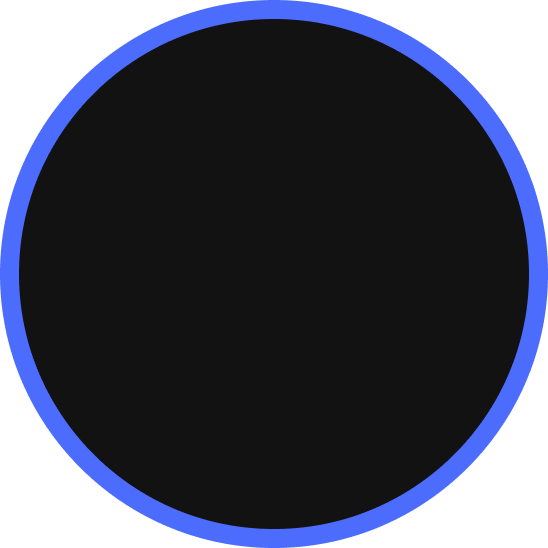
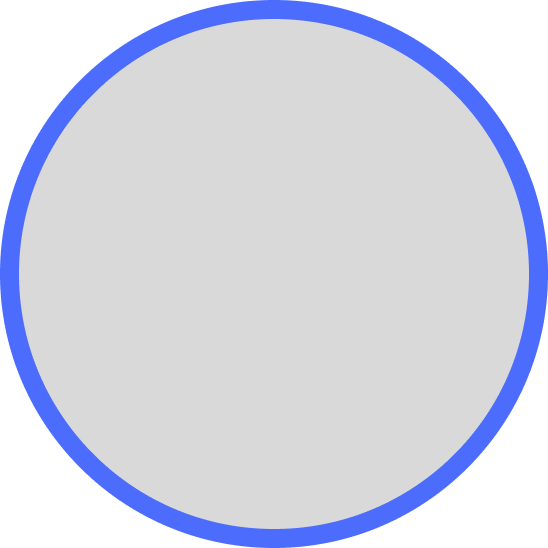
Self em todos os componentes da GUI002

diff --git a/view/Controller.py b/view/Controller.py
@@ -77,7 +77,6 @@ class TkThread(threading.Thread):
         # self.root.overrideredirect(True)
         self.root.geometry("{}x{}+{}+{}".format(window_width,
                            window_height, x_cordinate, y_cordinate))
-        # self.root.attributes("-fullscreen", True)
 
         # self.root.geometry("{0}x{1}+0+0".format(str(scr_w),str(scr_h)))
 
@@ -192,75 +191,73 @@ class GUI002(tk.Frame):
 
     def page_build(self):
         # Titulo Principal
-        title = tk.Label(
+        self.title = tk.Label(
             self,
             text="Guindaste Simulado",
             foreground=text_color,
             bg=background_color,
             font=("Inter Regular", 20))
 
-        title.place(x=830, y=16, width=260, height=24)
-
-        # Ellipse da telemetria
-        ellipse_telemetry_image = Image.open(
-            relative_to_assets("images/Ellipse 15.png"))
-        ellipse_telemetry_image = ImageTk.PhotoImage(ellipse_telemetry_image)
-        ellipse_telemetry_base = tk.Label(
-            self,
-            image=ellipse_telemetry_image,
-            bg=background_color)
-        ellipse_telemetry_base.image = ellipse_telemetry_image
-        ellipse_telemetry_base.place(x=682, y=104)
-
-        # Espaço da imagem
-        component_1_image = Image.open(
-            relative_to_assets("images/Component 1.png"))
-        component_1_image = ImageTk.PhotoImage(component_1_image)
-        component_1 = tk.Label(
-            self,
-            width=510,
-            height=510,
-            background=background_color,
-            foreground=background_color,
-            activebackground=background_color,
-            image=component_1_image,
-            bg=background_color)
-        component_1.image = component_1_image
-        component_1.place(x=701, y=123)
-
-        # Retângulo dos controles
-        rectangle_7_image = Image.open(
-            relative_to_assets("images/Rectangle 7.png"))
-        rectangle_7_image = ImageTk.PhotoImage(rectangle_7_image)
-        rectangle_7 = tk.Label(
-            self,
-            image=rectangle_7_image,
-            bg=background_color)
-        rectangle_7.image = rectangle_7_image
-        rectangle_7.place(x=254, y=758)
+        self.title.place(x=830, y=16, width=260, height=24)
 
         # Retângulo da telemetria - altura
-        height_telemetry_image = Image.open(
-            relative_to_assets("images/Group 5.png"))
-        height_telemetry_image = ImageTk.PhotoImage(height_telemetry_image)
-        height_telemetry_base = tk.Label(
+        # height_telemetry_image = Image.open(
+        #     relative_to_assets("images/Group 5.png"))
+        # height_telemetry_image = ImageTk.PhotoImage(height_telemetry_image)
+        # height_telemetry_base = tk.Label(
+        #     self,
+        #     image=height_telemetry_image,
+        #     bg=background_color)
+        # height_telemetry_base.image = height_telemetry_image
+        # height_telemetry_base.place(x=1212, y=286)
+
+        # Ellipse da telemetria
+        self.ellipse_telemetry_image = Image.open(
+            relative_to_assets("images/Group 18.png"))
+        self.ellipse_telemetry_image = ImageTk.PhotoImage(self.ellipse_telemetry_image)
+        self.ellipse_telemetry_base = tk.Label(
             self,
-            image=height_telemetry_image,
+            image=self.ellipse_telemetry_image,
             bg=background_color)
-        height_telemetry_base.image = height_telemetry_image
-        height_telemetry_base.place(x=1212, y=286)
+        self.ellipse_telemetry_base.image = self.ellipse_telemetry_image
+        self.ellipse_telemetry_base.place(x=278, y=104)
+
+        # Espaço da imagem
+        self.component_1_image = Image.open(
+            relative_to_assets("images/Component 1.png"))
+        self.component_1_image = ImageTk.PhotoImage(self.component_1_image)
+        self.component_1 = tk.Label(
+            self,
+            width=143,
+            height=143,
+            image=self.component_1_image,
+            bg="#D9D9D9")
+
+        self.component_1.image = self.component_1_image
+        self.component_1.place(x=885, y=305)
+
+        # Retângulo dos controles
+        self.rectangle_7_image = Image.open(
+            relative_to_assets("images/Rectangle 7.png"))
+        self.rectangle_7_image = ImageTk.PhotoImage(self.rectangle_7_image)
+        self.rectangle_7 = tk.Label(
+            self,
+            image=self.rectangle_7_image,
+            bg=background_color)
+        self.rectangle_7.image = self.rectangle_7_image
+        self.rectangle_7.place(x=254, y=758)
 
         # Label do controle de rotação
-        rotation_1_label = tk.Label(
+        self.rotation_1_label = tk.Label(
             self,
             text="Rotação",
             foreground=text_color,
             bg=control_background_color,
             font=("Inter Regular", 16))
-        rotation_1_label.place(x=1336, y=808, width=90, height=32)
+        self.rotation_1_label.place(x=1336, y=808, width=90, height=32)
 
         # Input do controle de rotação
-        rotation_canva = customtkinter.CTkFrame(
+        self.rotation_canva = customtkinter.CTkFrame(
             master=self,
             height=60,
             width=67,
@@ -269,10 +266,10 @@ class GUI002(tk.Frame):
             border_width=0,
             border_color=control_background_color)
         # frame_1.pack()
-        rotation_canva.place(x=1246, y=817)
+        self.rotation_canva.place(x=1246, y=817)
 
-        rotation_entry = customtkinter.CTkEntry(
-            master=rotation_canva,
+        self.rotation_entry = customtkinter.CTkEntry(
+            master=self.rotation_canva,
             placeholder_text="0",
             height=30,
             width=67,
@@ -287,18 +284,18 @@ class GUI002(tk.Frame):
             validatecommand=self.rotation_entry_callback
         )
 
-        rotation_entry.pack()
+        self.rotation_entry.pack()
 
-        rotation_metrics_label = tk.Label(
+        self.rotation_metrics_label = tk.Label(
             self,
             text="graus",
             foreground=text_color,
             bg=control_background_color,
             font=("Inter Regular", 16))
 
-        rotation_metrics_label.place(x=1246, y=842, width=67, height=30)
+        self.rotation_metrics_label.place(x=1246, y=842, width=67, height=30)
         # Slider da rotação
-        rotation_slider = customtkinter.CTkSlider(
+        self.rotation_slider = customtkinter.CTkSlider(
             master=self,
             from_=0,
             to=360,
@@ -318,17 +315,17 @@ class GUI002(tk.Frame):
             bd=0
         )
 
-        rotation_slider.set(0)
-        rotation_slider.border_color = "#262626"
-        rotation_slider.place(x=1338, y=846)
+        self.rotation_slider.set(0)
+        self.rotation_slider.border_color = "#262626"
+        self.rotation_slider.place(x=1338, y=846)
 
         # Label do controle de distância entre a ferramenta e o objeto
-        tool_1_label = tk.Label(self, text="Distância", foreground=text_color,
+        self.tool_1_label = tk.Label(self, text="Distância", foreground=text_color,
                                 bg=control_background_color, font=("Inter Regular", 16))
-        tool_1_label.place(x=436, y=808, width=90, height=32)
+        self.tool_1_label.place(x=436, y=808, width=90, height=32)
 
         # Slider da distância
-        distance_slider = customtkinter.CTkSlider(
+        self.distance_slider = customtkinter.CTkSlider(
             master=self,
             from_=0,
             to=1,
@@ -348,11 +345,11 @@ class GUI002(tk.Frame):
             bd=0
         )
 
-        distance_slider.set(0)
-        distance_slider.border_color = "#262626"
-        distance_slider.place(x=436, y=846)
+        self.distance_slider.set(0)
+        self.distance_slider.border_color = "#262626"
+        self.distance_slider.place(x=436, y=846)
 
-        distance_canva = customtkinter.CTkFrame(
+        self.distance_canva = customtkinter.CTkFrame(
             master=self,
             height=60,
             width=67,
@@ -360,11 +357,11 @@ class GUI002(tk.Frame):
             fg_color=control_background_color,
             border_width=0,
             border_color=control_background_color)
-        # frame_1.pack()
-        distance_canva.place(x=345, y=817)
 
-        distance_entry = customtkinter.CTkEntry(
-            master=distance_canva,
+        self.distance_canva.place(x=345, y=817)
+
+        self.distance_entry = customtkinter.CTkEntry(
+            master=self.distance_canva,
             placeholder_text="0",
             height=30,
             width=67,
@@ -375,24 +372,24 @@ class GUI002(tk.Frame):
             fg_color=control_background_color,
             text_color=text_color)
 
-        distance_entry.pack()
+        self.distance_entry.pack()
 
-        rotation_metrics_label = tk.Label(
+        self.rotation_metrics_label = tk.Label(
             self,
             text="cm",
             foreground=text_color,
             bg=control_background_color,
             font=("Inter Regular", 16))
 
-        rotation_metrics_label.place(x=345, y=842, width=67, height=30)
+        self.rotation_metrics_label.place(x=345, y=842, width=67, height=30)
 
         # Botão liga e desliga o ímã
-        magnet_image = Image.open(
+        self.magnet_image = Image.open(
             relative_to_assets("images/Group 15.png"))
-        magnet_image = ImageTk.PhotoImage(magnet_image)
-        magnet_button = tk.Button(
+        self.magnet_image = ImageTk.PhotoImage(self.magnet_image)
+        self.magnet_button = tk.Button(
             self,
-            image=magnet_image,
+            image=self.magnet_image,
             bg=control_background_color,
             highlightthickness=0,
             bd=0,
@@ -403,8 +400,8 @@ class GUI002(tk.Frame):
             highlightbackground=control_background_color
         )
 
-        magnet_button.image = magnet_image
-        magnet_button.place(x=893, y=782)
+        self.magnet_button.image = self.magnet_image
+        self.magnet_button.place(x=893, y=782)
 
 
 if __name__ == "__main__":
